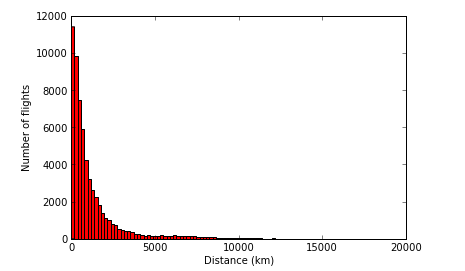
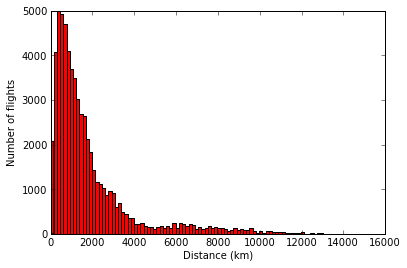
Fix a bug in the airline route distance example, found by a student. The system works!

Changed region(s): [[0.0, 0.0299, 1.0, 0.9851]]

diff --git a/core/csv.md b/core/csv.md
@@ -161,7 +161,7 @@ When looking at the list of fields in the OpenFlights data documentation, rememb
         if source_airport in latitudes and dest_airport in latitudes:
             source_lat = latitudes[source_airport]
             source_long = longitudes[source_airport]
-            dest_lat = latitudes[source_airport]
+            dest_lat = latitudes[dest_airport]
             dest_long = longitudes[dest_airport]
             distances.append(geo_distance.distance(source_lat,source_long,dest_lat,dest_long))
 
